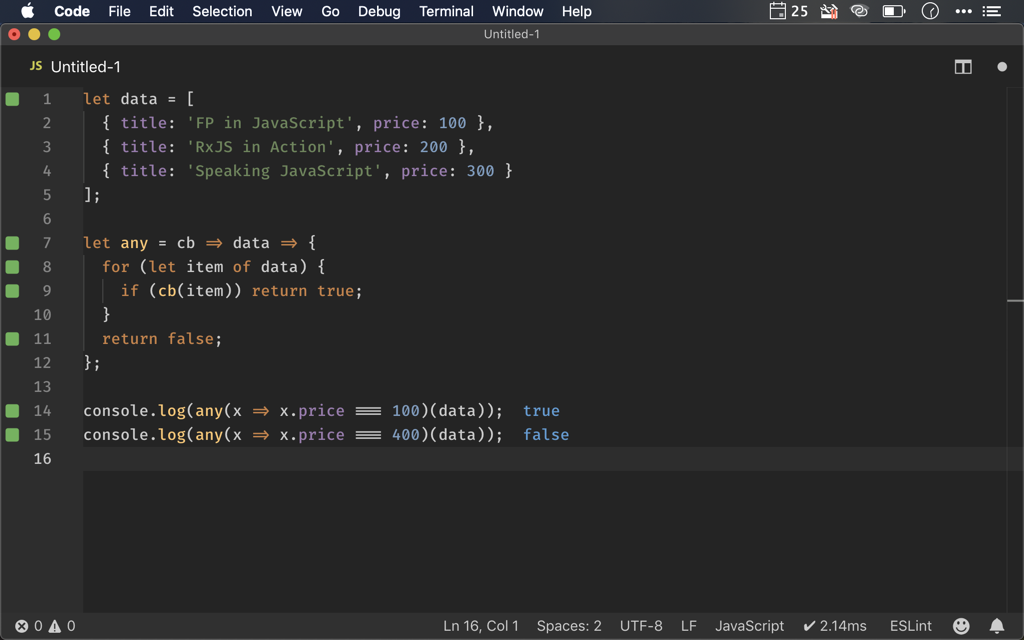
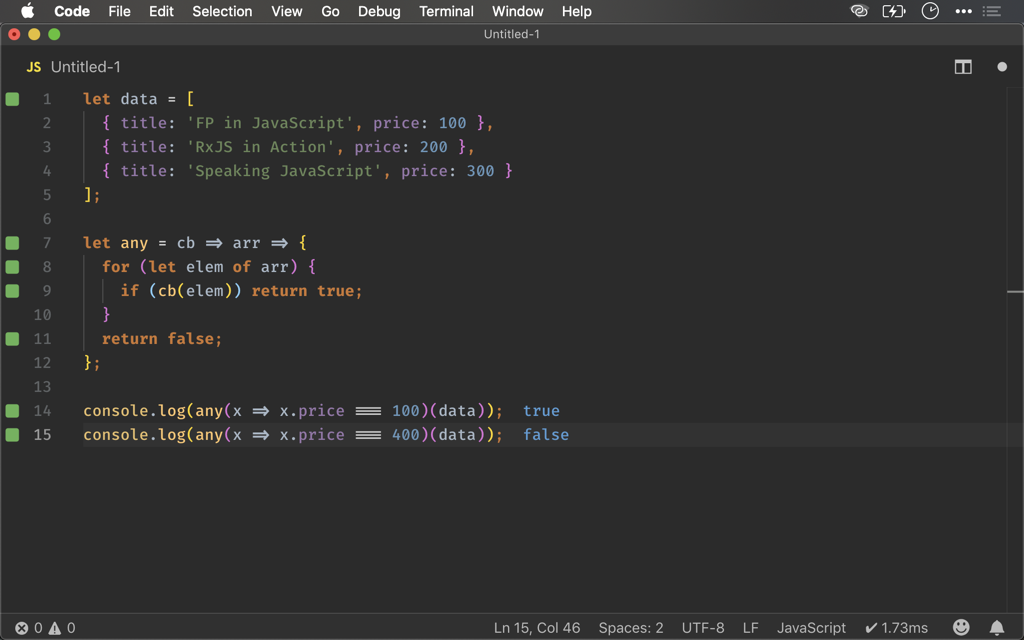
Ramda 之 any()

diff --git a/source/_posts/ramda/any.md b/source/_posts/ramda/any.md
@@ -25,9 +25,9 @@ let data = [
   { title: 'Speaking JavaScript', price: 300 }
 ];
 
-let any = cb => data => {
-  for (let item of data) {
-    if (cb(item)) return true;
+let any = cb => arr => {
+  for (let elem of arr) {
+    if (cb(elem)) return true;
   }
   return false;
 };
